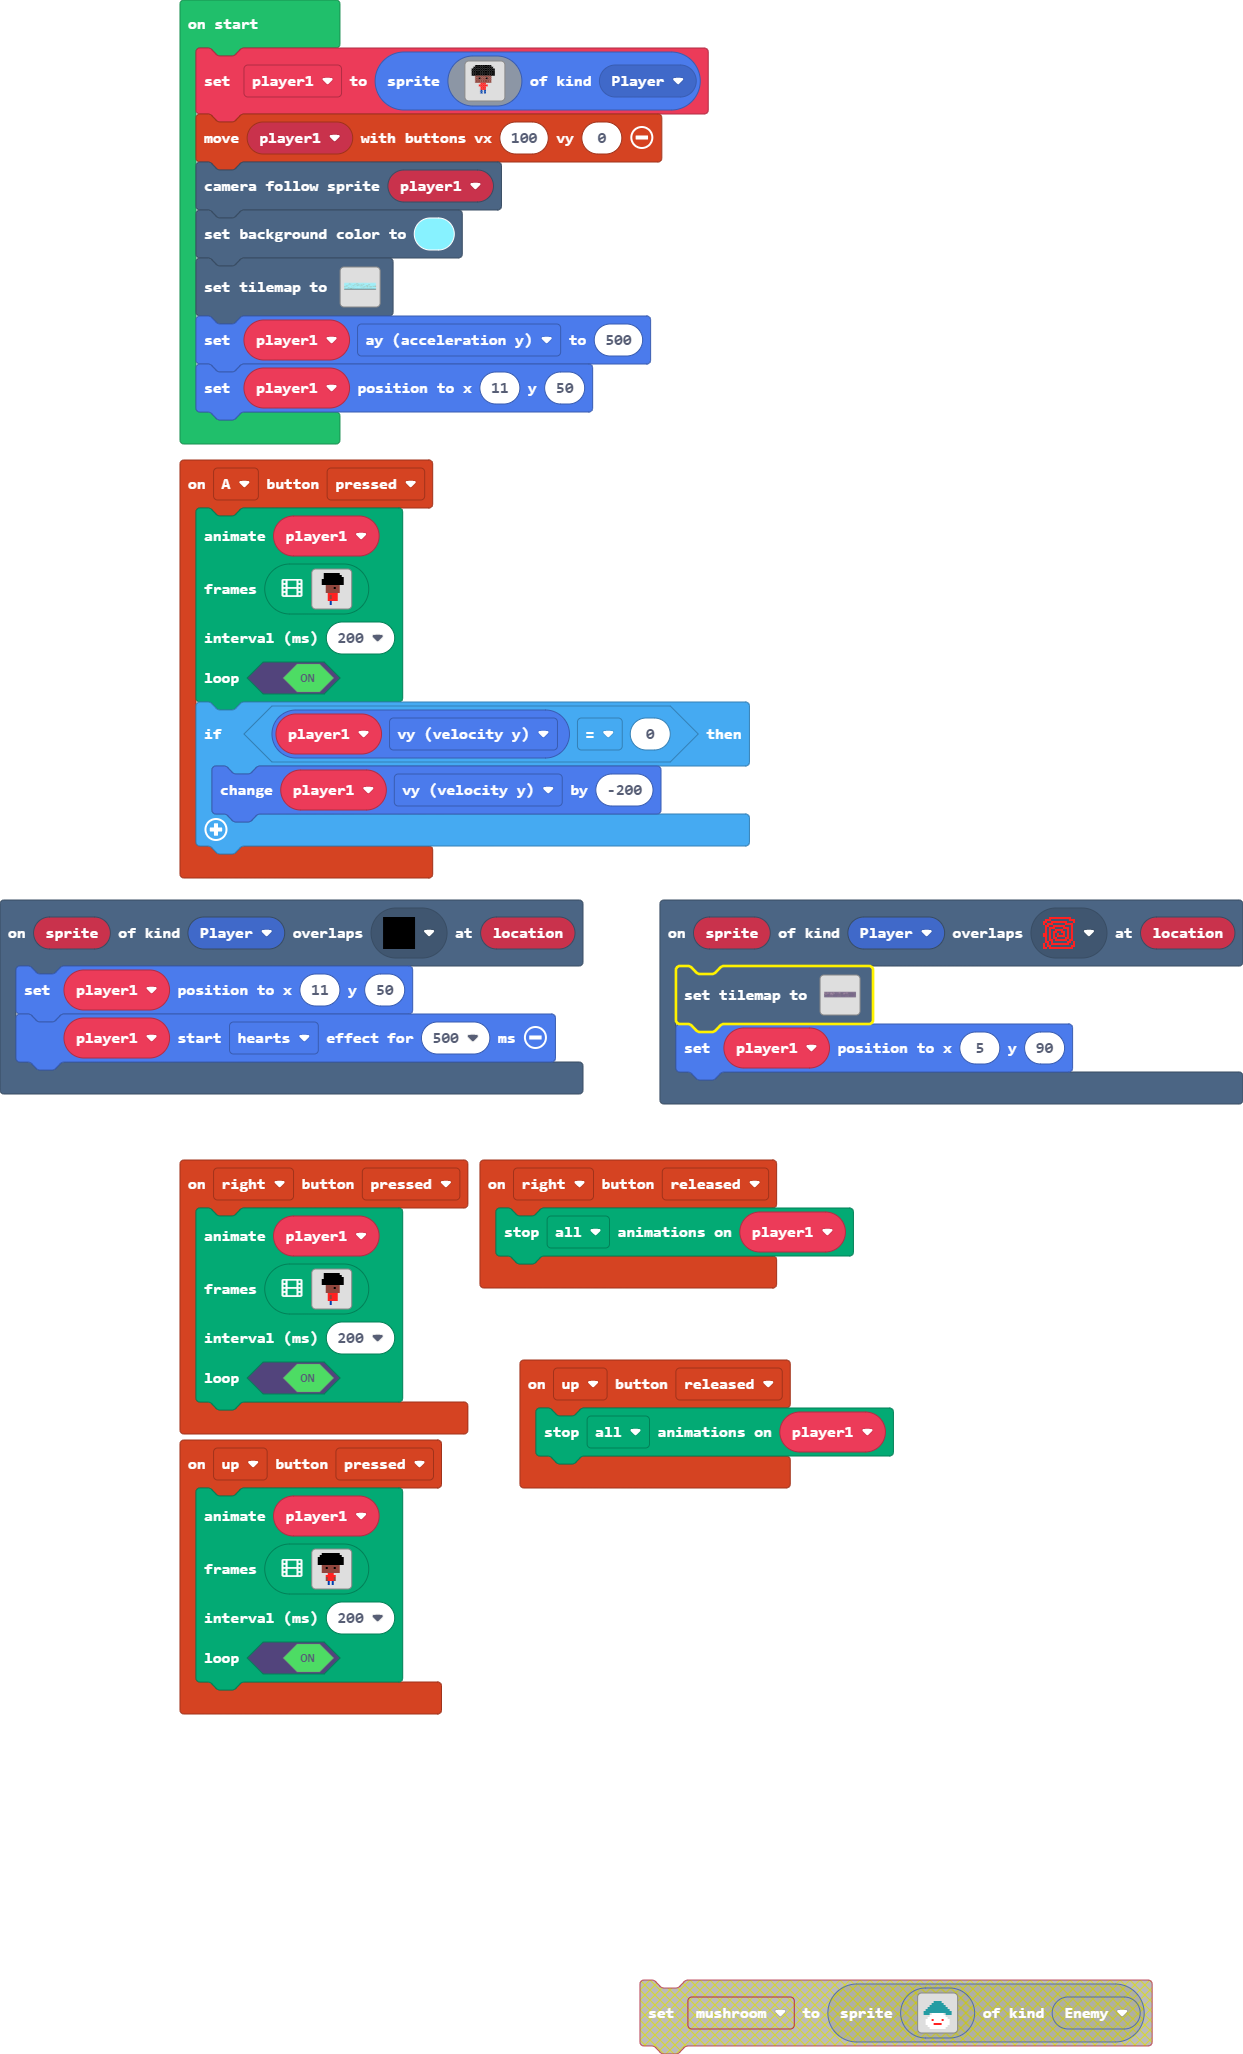
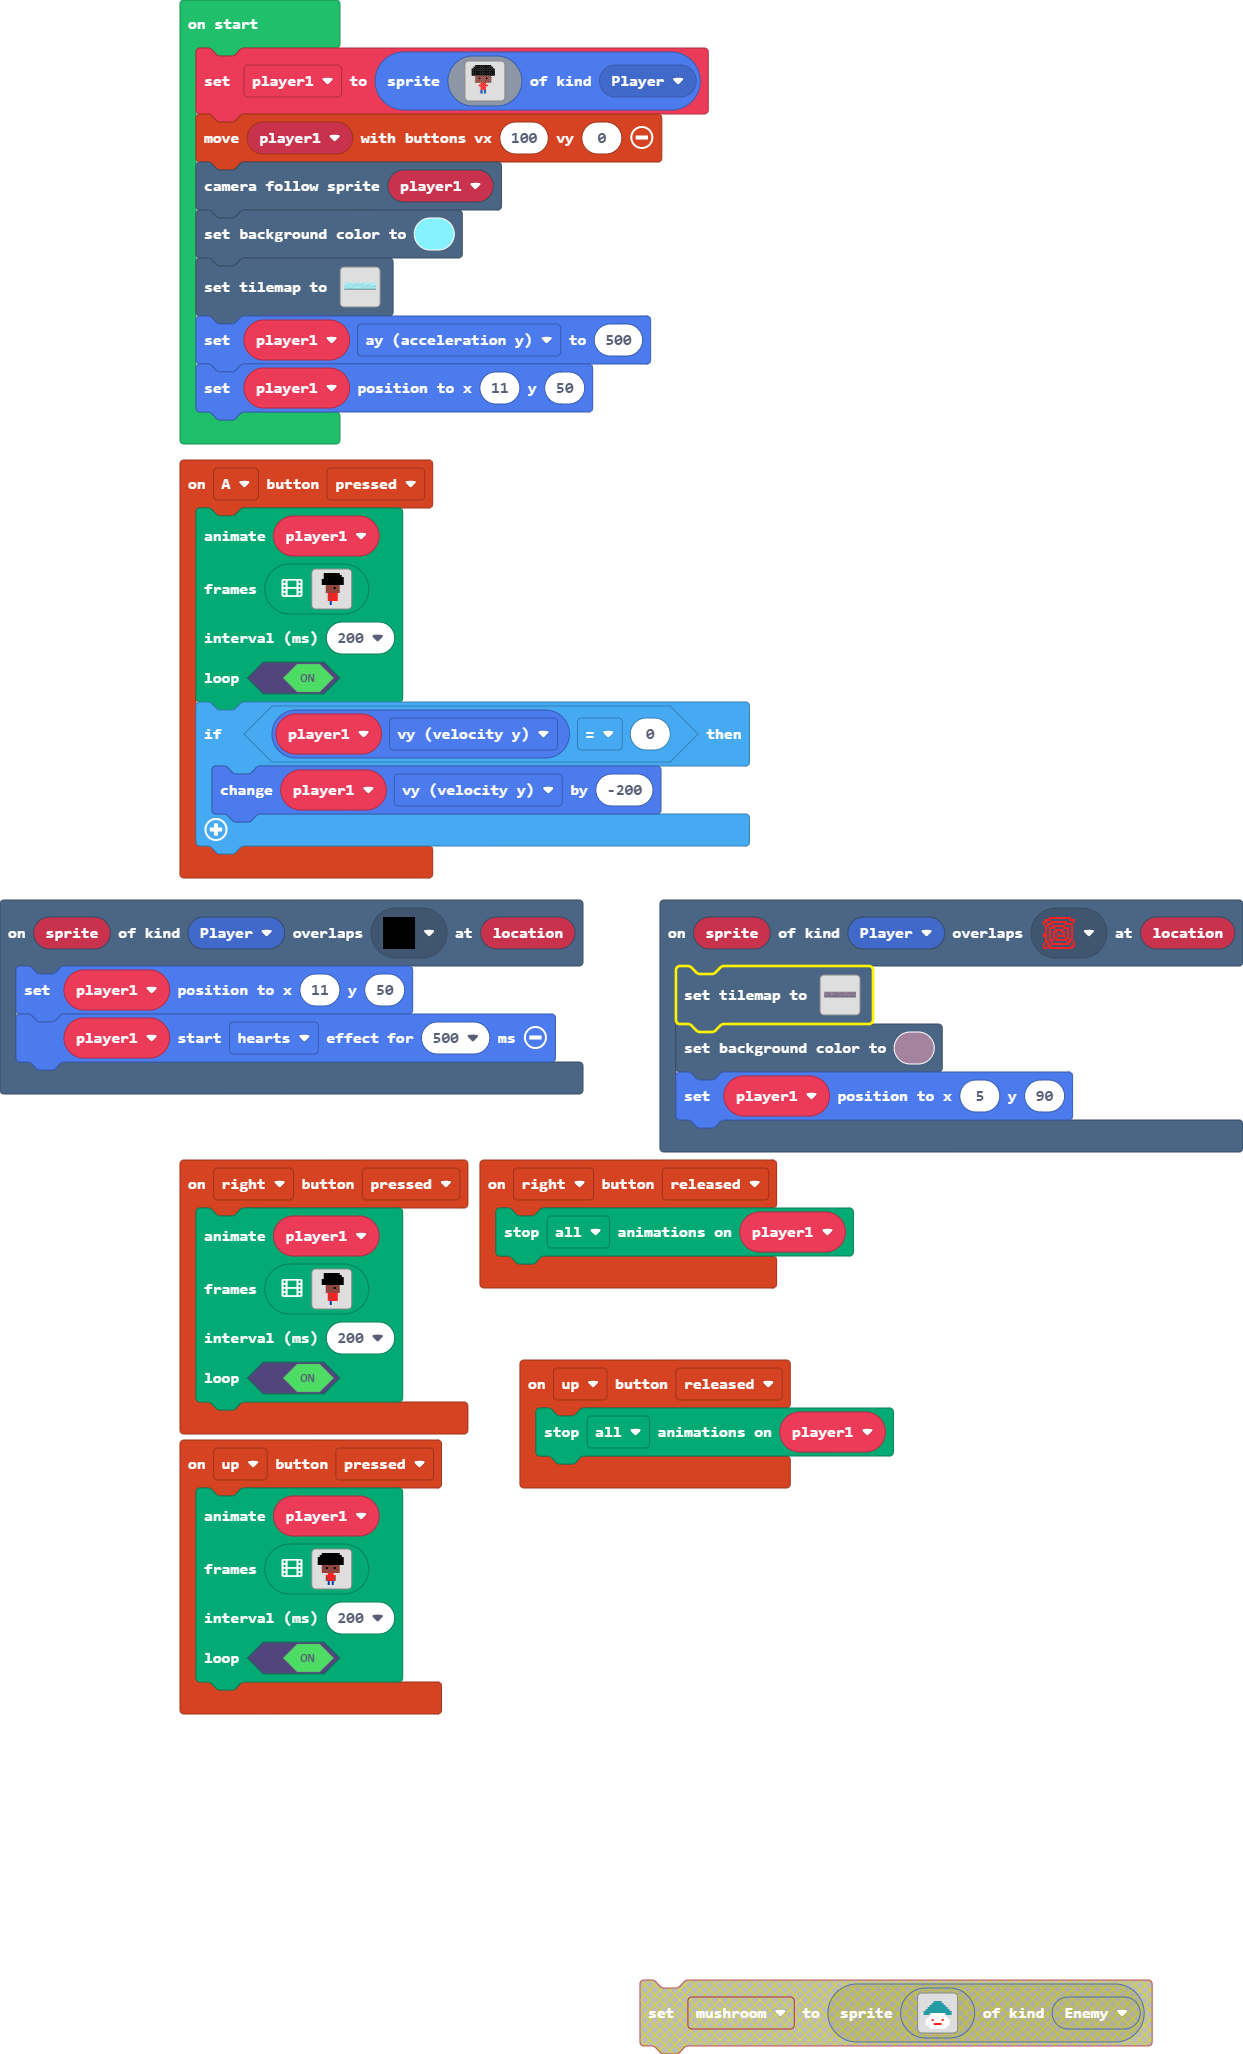
map 2 update

Changed region(s): [[0.5197, 0.4985, 1.0, 0.5609]]

diff --git a/tilemap.g.ts b/tilemap.g.ts
@@ -30,6 +30,8 @@ namespace myTiles {
     export const tile13 = image.ofBuffer(hex``);
     //% fixedInstance jres blockIdentity=images._tile
     export const tile14 = image.ofBuffer(hex``);
+    //% fixedInstance jres blockIdentity=images._tile
+    export const tile15 = image.ofBuffer(hex``);
 
     helpers._registerFactory("tilemap", function(name: string) {
         switch(helpers.stringTrim(name)) {
@@ -91,24 +93,24 @@ namespace myTiles {
 ................................................................................
 `, [myTiles.transparency16,myTiles.tile1,myTiles.tile2,myTiles.tile6,myTiles.tile13,myTiles.tile11], TileScale.Sixteen);
             case "level2":
-            case "level2":return tiles.createTilemap(hex`6400100002020202020202020202020202020202020202020202020202020202020202020202020202020202020202020202020202020202010202020202020202020202020202020202020202020202020202020202020202020202020202020202020202020202020202020202020202020202020201020202020202020202020202020202020202020201020202020202020202020203020202020202020202020202020202020202020202020202020202020202020202030202010202020202020201020204020202010303030202020201020201030301020202020102020302020202020202030302020202020202020102020202020203020303030202020202020202020102020302020202010103030303020202020202020303020202020202020202020202020202020103030303020202020202020303030202020202020203020303030201020303030202020202020202020202020202030303030303020202010202020202020203030202020302030302030202020202020202030202020202020302020202020202020201020303030202020202020202030303020202020203030203020301010202020303030202020202020203020202020202020202020202020202020202020203030303020203030201030303020202020202020203030202020301020202020201020202020202020202020202020303020203030202020202030302020303030201020203030302020202020203030102020202020202020201020202020202020203030303020202020202020201010202020202030303030303030302020202020302020202020202020102030303030303020202020202020202030302030303030303020202020201020202020202020202020202020202020202020102020202020203020303030202020202020202020201020202020202020202030202020202020303020202020202020202020303030202020202020202020202020303030202030302020302020202020202010202020202020203020202020202020201020202020202020202020202020202020202030302020202020203030202020202020202020302020202030202020202020202020202020202020202020102020202020202020201030303020202020202020202020202020202030202020102030303020202020202020102020202020202020203030202020202020202030303020202020102020203020302020202020202020202020303020201020202020202020202020202020202020202020202020202020202020302020202020203020202020302030302020301020202020102020202030203020202020202020102030203030202020202020203020203020202020202020202020203030505050202020202020302020201020202020203020202020202020202020203020202020102020302020202020203030303020202020202020203030202030202020202020202030302030202020202030303020202020302020202020205050505030202020203050202020305010202020202020203030202020202030202020202020303020202020203020202020202020303030302020202020202030303030202020201020202030303030302020201010303020202020203030202020202020202020202020202020203050302020202030303020303020202020102030202020202020202030302020202030202020202020202020202020202020203030202020202020202020202020303030302020202020203020202010202020302020202020202020202020202020202020202020202020202020302020202020202020202020202020201020202020202020203030202020202020202020202020102030202020202020201020202020202020202020202020202020202020202020202020202020202020202020202020202020202020202020202020202020202020202020202020102020202020202020202020202020302020201020202020102020202020202020202010101020202020202020202010202020202020202020202020201020202020202020202020202020202020202020202020202020202020202020202020202020202020202020202020202020202020202020202020202020202020202020202020202020202020202020202020202020202020202020202020202020202020202020202`, img`
+            case "level2":return tiles.createTilemap(hex`6400100002020202020202020202020202020202020202020202020202020202020202020202020202020202020202020202020202020202010202020202020202020202020202020202020202020202020202020202020202020202020202020202020202020202020202020202020202020202020201020202020202020202020202020202020202020201020202020202020202020203020202020202020202020202020202020202020202020202020202020202020202030202010202020202020201020204020202010303030202020201020201030301020202020102020302020202020202030302020202020202020102020202020203020303030202020202020202020102020302020202010103030303020202020202020303020202020202020202020502050202020103030303020202020202020303030202020202020203020303030201020303030202020202020202020202020202030303030707020202010202020202020203030202020302030302030202020202020202030202020202020302050202020202020201020303030202010202020202030303020202020203030203020301010202020303030202020202020203020207070707020202020202020202020202020203030303020203030201030303020202020202020203030202020301020202020201020202020202020202020202020303020203030201020202010302020303030201020203030302020202020203030102020202020202020201020205020202020203030305020202020202020201010202020505030303030303030305020202020302020202020202020102030303030303020202010202020202030302030303030303020202050501020202020707070202020202020202020202020102020202020203020303030202020505050202020201020202020202020202030202020202020303020202020202020202020303030201020202020202020202020303030205050502020302020202020202010202020202020203020207020202020201020202020505050502020202020202020202030302070702020203030202020502020202020302020202030202020202020202020202020202020202020102020202020202020201030305050102020707070702020202020202030202020102030303050202020202020102020202020502020203030202020202020202050505020202020102050203050505050502020202020102020301020201020202020202020202050505020202020202020202020202020202020302020202020207020202020702030302020301020202020102020202030203020205050502020102030203030202020202020203020203020202020202020202020203030505050202020202020302020201020202020203020202020202020202020203020202070102020302020202020203030303020202020202020203030202030202020202020202030302030202020502030303020202020302020202020205050505030202020203050202020305010202020202020203030202020202030202020202020303020202020203020202020202020303030302020202020202030303030202020201020202030303030302020201010303020202020203030202020202020202020202020202020203050302020202030303020303020102020102030202020202020202030302020202030202020202020202020202020202020203030202020202020202020202020303030302020202020203020202010202020302020202020202020202020202020202020202020202010202020102020202020202020202020202020201020202020202020203030202020202020202020202020102030202020202020201020202020202020202020202020202020202020202020202020202020202020202020202020202020202020202020202020202020202020202020202020102020202020202020202020202020302020201020202020102020202020202020202010101020202020202020202010202020202020202020202020201020202020206060606060606060606060606060606060606060606060606060606060606060606060606060606060606060606060606060606060606060606060606060606060606060606060606060606060606060606060606060606060606060606060606060606`, img`
 ....................................................................................................
 ....................................................................................................
-....................................................................................................
-....................................................................................................
-....................................................................................................
-....................................................................................................
-....................................................................................................
-....................................................................................................
-....................................................................................................
-....................................................................................................
-.......222..........................................................................................
+.............................................................................................2.2....
+..................................................22.......................................2........
+............................................2222....................................................
+.......................................................2........2.............22........2...........
+...............................22.....222...........................222.............................
+.......................222.....................2..........2222.............22........2..............
+............................22...2222................2............2.............222......2..22222...
+...................222.......................2....2.....................222.........................
+.......222................................2..........................................2..............
 .2222......2....2...................................................................................
 .............2......................................................................................
 ....................................................................................................
 ....................................................................................................
 ....................................................................................................
-`, [myTiles.transparency16,myTiles.tile7,myTiles.tile8,myTiles.tile9,myTiles.tile6,myTiles.tile14], TileScale.Sixteen);
+`, [myTiles.transparency16,myTiles.tile7,myTiles.tile8,myTiles.tile9,myTiles.tile6,myTiles.tile14,myTiles.tile11,myTiles.tile15], TileScale.Sixteen);
         }
         return null;
     })
@@ -144,6 +146,8 @@ namespace myTiles {
             case "tile13":return tile13;
             case "myTile12":
             case "tile14":return tile14;
+            case "myTile13":
+            case "tile15":return tile15;
         }
         return null;
     })

diff --git a/main.ts b/main.ts
@@ -155,6 +155,7 @@ controller.A.onEvent(ControllerButtonEvent.Pressed, function () {
 })
 scene.onOverlapTile(SpriteKind.Player, assets.tile`myTile4`, function (sprite, location) {
     tiles.setTilemap(tilemap`level2`)
+    scene.setBackgroundColor(11)
     player1.setPosition(5, 90)
 })
 scene.onOverlapTile(SpriteKind.Player, assets.tile`myTile9`, function (sprite, location) {
